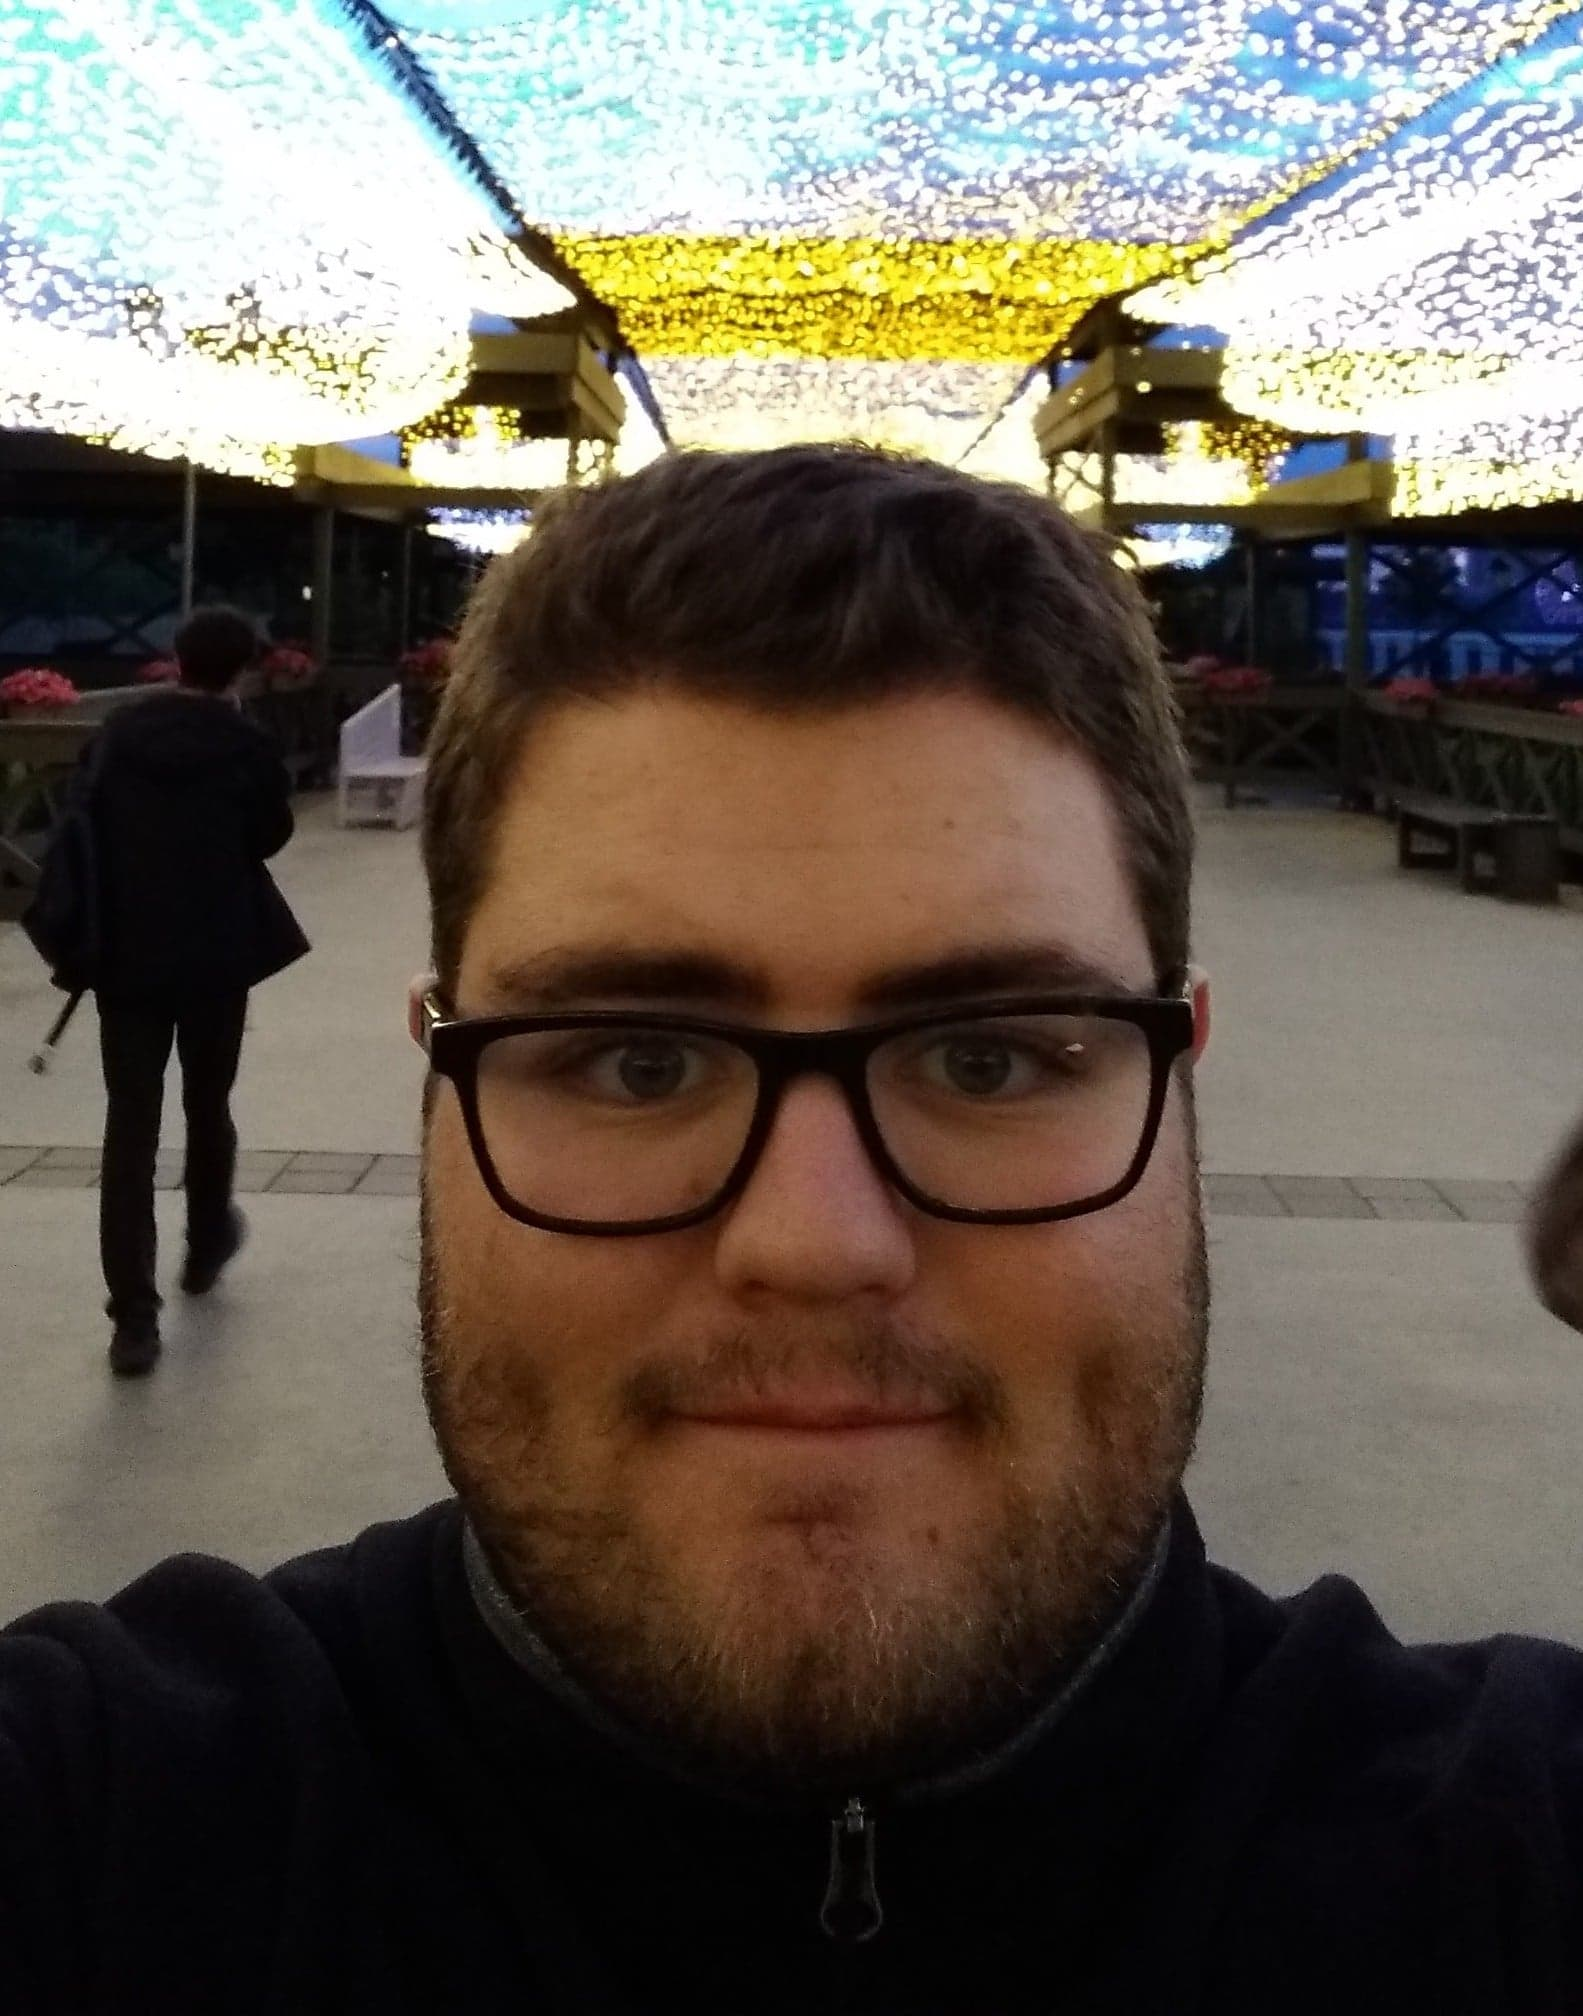
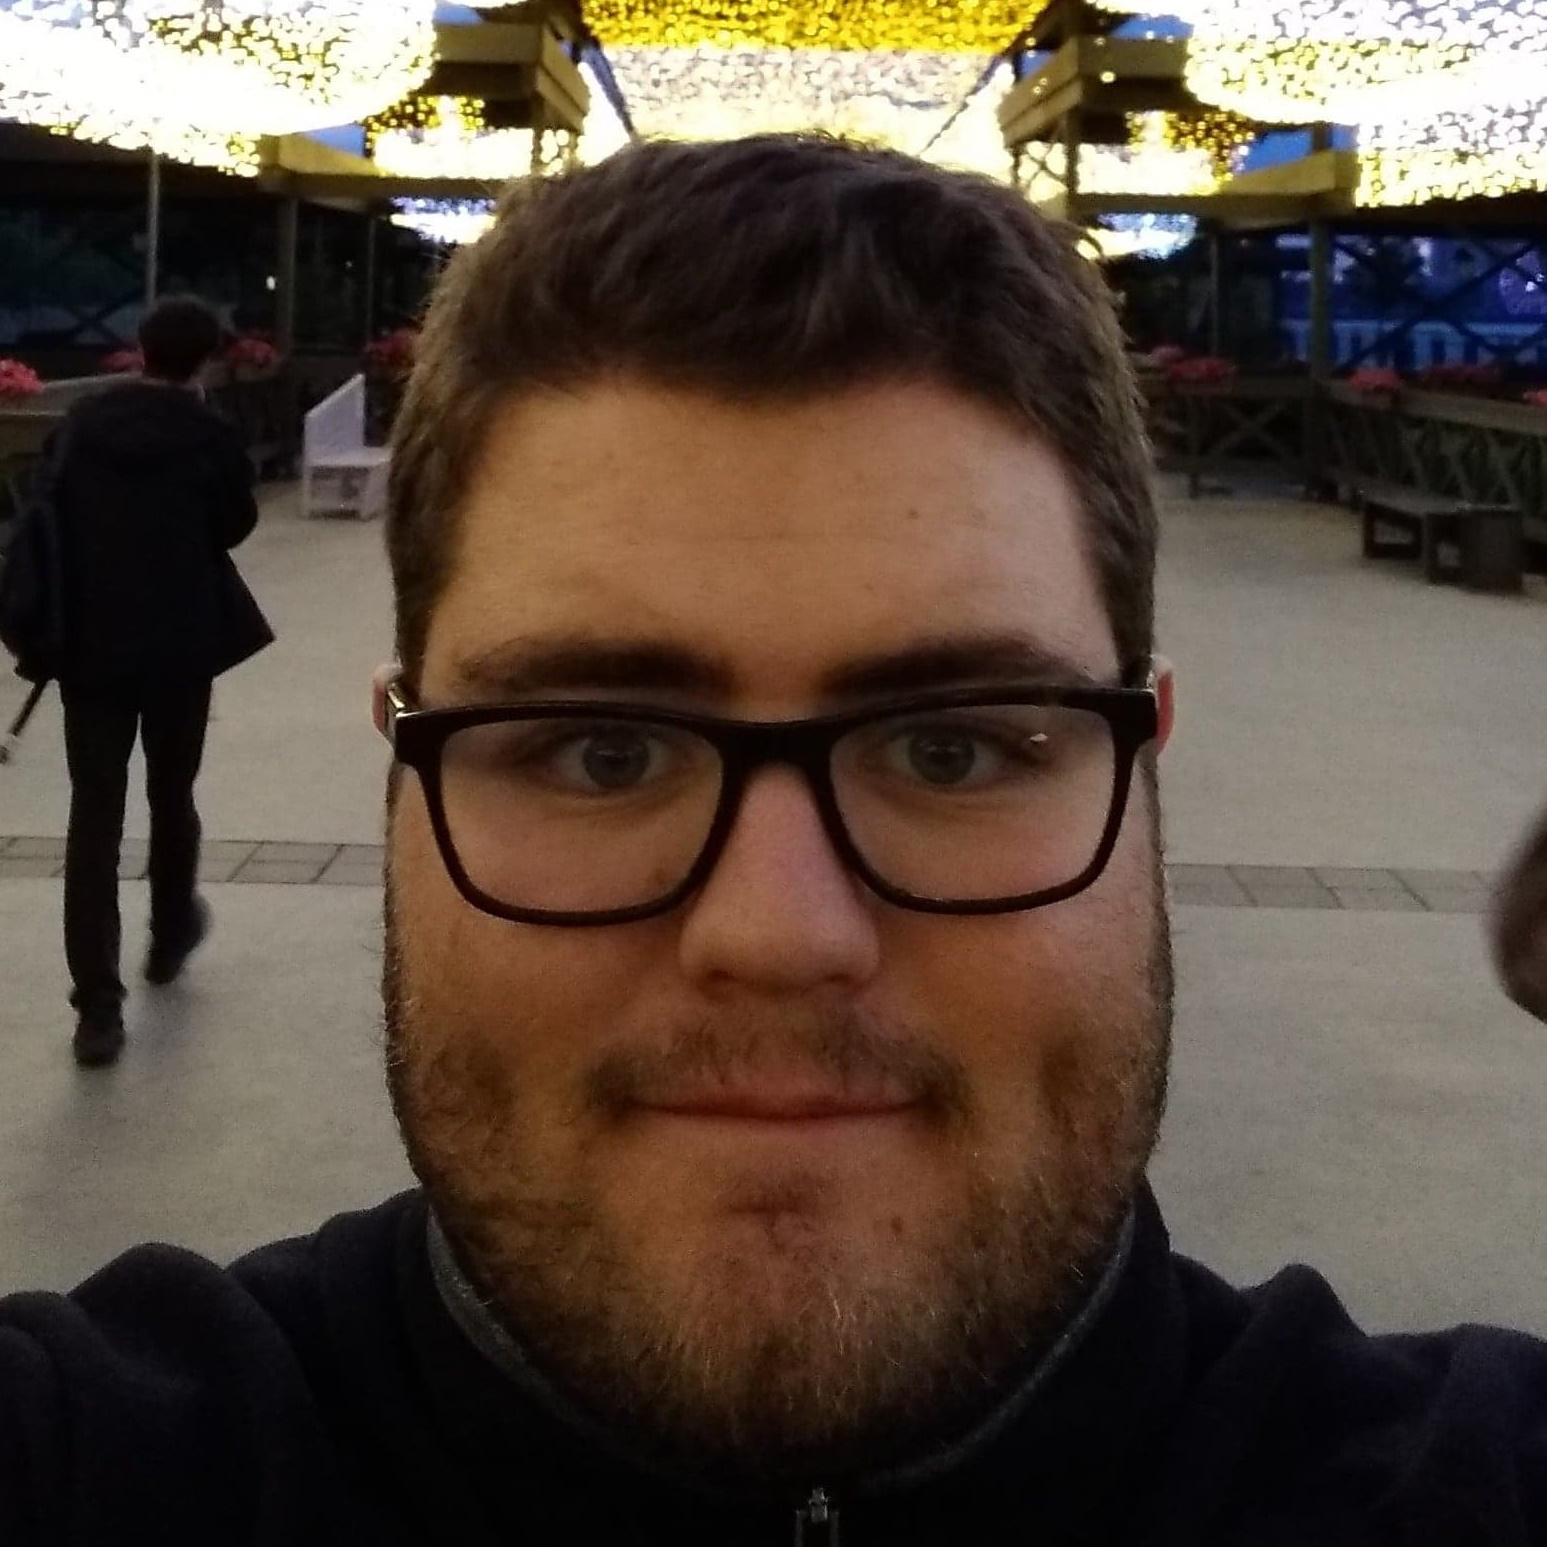
Replaced some placeholders, uploaded final profile image

diff --git a/index.html b/index.html
@@ -85,7 +85,7 @@
             </div>
 
             <div class="ProfilePanel">
-                <img src="resources/PlaceholderProfile.png" style="width:130px; border-radius: 50%;">
+                <img src="resources/Profiles/ProfilePictures/ProfileTyler.png" style="width:130px; border-radius: 50%;">
                 <h5>Tyler Lillis</h5>
                 <p class="ProfileSubtext">s3947709 • s3947709@student.rmit.edu.au</p>
                 <p>Hi, my name is Tyler Lillis. I’m Australian born with close Maltese background but have absolutely no clue how to speak a word of that language anymore even though I tried learning. I am massive basketball fan and always have been, but also really enjoy playing around with technology and learning new things about it constantly!</p>
@@ -103,14 +103,17 @@
         <div class="ContainerDiv" id="idealjobs">
             <h3>Ideal Jobs</h3>
             <div class="MainPanel">
-                <p>Placeholder text</p>
                 <table style="width:100%;">
                     <tr><th style="width:15%">Name</th><th style="width:17%">Ideal Job</th><th>Similarities</th><th>Differences</th></tr>
-                    <tr><td>Will Dash</td><td>Cyber Security Sepcialist</td><td>placeholder</td><td>placeholder</td></tr>
-                    <tr><td>Princess Abbey Jabadan</td><td>Web Developer</td><td>placeholder</td><td>placeholder</td></tr>
-                    <tr><td>Chelsie Arvy Anday</td><td>Software Developer</td><td>placeholder</td><td>placeholder</td></tr>
-                    <tr><td>Zachery Stokeld</td><td>Software Developer</td><td>placeholder</td><td>placeholder</td></tr>
-                    <tr><td>Tyler Lillis</td><td>Junior Cyber Security Analyst</td><td>placeholder</td><td>placeholder</td></tr>
+                    <tr><td>Will Dash</td><td>Cyber Security Sepcialist</td><td><ul><li>Both Princess's and my ideal job include some elements of internet and web server security, also disaster recovery plans are included as one of my tasks too </li><li>My ideal job shares similarities with Zach and Chelsie’s jobs in making suggestions and recommendations on solving client problems and writing code for a client </li><li>Tyler and I’s ideal jobs both share a strong focus on security and responding to incidents that occur </li></ul></td><td><ul><li>Princess’s ideal job is centered around website production and maintenance making it fundamentally different to mine whilst integrating some minor security aspects </li><li>Zach and Chelsie’s ideal jobs are about writing programs that process and parse data from a database instead of a security-based job </li><li>Tyler’s ideal job is the most like mine as ours are both security-based but Tyler’s has a focus on analyzing incidents and pen-testing whilst mine includes making programs that prevent threats </li></ul></td></tr>
+
+                    <tr><td>Princess Abbey Jabadan</td><td>Web Developer</td><td><ul><li>Both my ideal job and Software developers (Zach and Chelsie) share similarities between having technical skills and require software languages such as JavaScript to assist in development plans for the increase in sales revenues, assist in the development of new products, detailed oriented in which means precise attention to details and the designing and building of software computer programs. </li><li>Williams and I’s Ideal Job includes some aspects of web security and some of high-level programming skills such as Java and PHP.</li><li>Both I and Tyler’s ideal Job shares the same aspect of having analytical skills such as ensuring and understands the needs of the clients.</li></ul></td><td><ul><li>Zach and Chelsie’s ideal job is mostly focused on computer programs while my ideal job is mainly concerned with websites and web applications that run on internet browsers</li><li>My Ideal job communicate with the network specialist for the web issues and web server security while William’s ideal job as a cybersecurity specialists provide solutions to their problems and develop strategies for improving data protection. </li><li>Tyler’s Ideal job as a Cyber security analyst provides protection and is responsible for giving advice and security awareness such as spam and malicious emails and providing recommendations of how to avoid future exposure. Which is not related to my ideal job of web development but is very important and helpful.</li></ul></td></tr>
+
+                    <tr><td>Chelsie Arvy Anday</td><td>Software Developer</td><td><ul><li>Will and I’s ideal jobs involve problem solving and writing code for clients.</li><li>Princess and I’s ideal jobs do not stray far from one another in terms of the skillset involved. Our ideal jobs focus on designing webpages as well as needing programming skills to accomplish tasks.</li><li>Tyler and I’s jobs both deal with software by designing programs.</li></ul></td><td><ul><li>Will’s job involves more security elements in his job compared to software developers who need a more flexible range to design software for the client.</li><li>Our jobs differ by the set of programming languages required to learn. While Princess’s job focuses on the overall development of webpages and web applications, software developers are required to be able to build any software that satisfies the client. </li><li>Tyler and I’s jobs both require designing programs, but his requires reacting to threats in cybersecurity as opposed to my ideal job</li></ul></td></tr>
+
+                    <tr><td>Zachery Stokeld</td><td>Software Developer</td><td><ul><li>Will and I’s ideal jobs both involve dealing with client requests, and creating code to achieve those desired results</li><li>Princess and I’s ideal jobs share many similar technical skills such as using programming languages to design programs/webpages, as well as principles such as attention to detail</li><li>Tyler and I’s ideal jobs do not share many similarities beyond some minor technical skill overlap in regards to coding in python</li></ul></td><td><ul><li>Will’s ideal job as a cyber security specialist while still including development, also includes aspects like security assessments and client consultations</li><li>Princess’s ideal job is focused on the design and development of webpages and web applications, whereas my ideal job is focused on data modelling </li><li>While Tyler’s ideal job in cyber security does not relate to software development very much, it is also a far more reactionary job, as it primarily deals with incident response</li></ul></td></tr>
+
+                    <tr><td>Tyler Lillis</td><td>Junior Cyber Security Analyst</td><td><ul><li>Both Will and I’s jobs are based off the same premise of cyber security and both help and protect from threats</li><li>My ideal job is similar to Zach and Chelsie as both jobs to an extent are based around developing and designing computer programs</li><li>Mine is similar to princess as both of them are about the use and creation of servers and web applications.</li></ul></td><td><ul><li>A difference between Will and I is that an analyst looks into the data whereas a specialists specialises in certain aspects of a job </li><li>In software development you will go into further development of programs whereas a cyber security analyst will then go and analyses to improve and not make as heavily coded programs? </li><li>A web developer will spend more time on the design aspect to be appealing on a web application whereas an analyst would look into it and make sure it works for the user(s) and help keep them safe.</li></ul></td></tr>
                 </table>
             </div>
         </div>
@@ -157,14 +160,14 @@
                     </div>
                 </div>
                 <h2 class="InDataHeading" style="margin-left: 0">Has your opinion changed after looking at this data? (Princess)</h2>
-                <p>placeholder</p>
+                <p>My opinion on my ideal job hasn’t changed knowing that I’m still willing to improve these skills, especially the ones that are in demand such as communication and Problem-solving skills. I could also expand my knowledge for some of the IT specific skills such as learning JavaScript and PHP programming languages.</p>
             </div>
 
             <div class="MainPanel">
                 <img src="resources/SoftDevIcon.svg" style="width:450px; float: right; margin-bottom: 10px; margin-top: 50px">
                 <h1>2</h1>
                 <h2 class="InDataHeading">Software Developer Skills</h2>
-                <div style="height: 300px">
+                <div style="height: 350px">
                     <div style="float:left; margin-left: 10px; margin-bottom: 50px; margin-right: 25px">
                         <p>General skills required</p>
                         <ol>
@@ -199,16 +202,17 @@
                     </div>
                 </div>
                 <h2 class="InDataHeading" style="margin-left: 0;">Has your opinion changed after looking at this data? (Chelsie)</h2>
-                <p>placeholder</p>
+                <p>My opinion towards becoming a software developer has not changed despite the data. I do understand that my ideal job requires me to learn a set of programming languages and I am willing to hone the skills I already possess to be qualified in the job such as the attention to detail, which can help with writing code and debugging. 
+                </p>
                 <h2 class="InDataHeading" style="margin-left: 0; margin-top: 40px;">Has your opinion changed after looking at this data? (Zachery)</h2>
-                <p>placeholder</p>
+                <p>This information has not changed my opinion about becoming a software developer. I have a long way to go in not only learning specific programming languages, but also with the general skills that are required, as I am inexperienced at working in a professional team environment and my organizational skills require much refining. However, my enjoyment of problem solving and mathematics still lead this to be an ideal job for myself </p>
             </div>
 
             <div class="MainPanel">
                 <img src="resources/CybersecurityIcon.svg" style="width:400px; float: left; margin-right: 45px; margin-left: 25px">
                 <h1>3</h1>
                 <h2 class="InDataHeading">Cyber Security Specialist Skills</h2>
-                <div style="height: 300px">
+                <div style="height: 350px">
                     <div style="float:left">
                         <p>General skills required</p>
                         <ol>
@@ -243,14 +247,14 @@
                     </div>
                 </div>
                 <h2 class="InDataHeading" style="margin-left: 0">Has your opinion changed after looking at this data? (William)</h2>
-                <p>placeholder</p>
+                <p>No, my opinion hasn’t changed. Even though I will have to learn multiple different coding languages, operating systems and how networking works on a deeper level, I am still interested in building my skill sets to the point where I am qualified for this job. In fact, some of the general and IT-specific skills that I was not completely aware of being demanded for this kind of job are abilities that I already show interest in. For example, I enjoy designing presentations and going into detail and I am interested in the finer details of networking as I had to teach myself some of it when creating my own server.</p>
             </div>
 
             <div class="MainPanel">
                 <img src="resources/CybersecurityIcon.svg" style="width:400px; float: right; margin-right: 25px; margin-left: 25px">
                 <h1>4</h1>
                 <h2 class="InDataHeading">Cyber Security Analyst Skills</h2>
-                <div style="height: 330px">
+                <div style="height: 400px">
                     <div style="float:left">
                         <p>General skills required</p>
                         <ol>
@@ -287,7 +291,7 @@
                     </div>
                 </div>
                 <h2 class="InDataHeading" style="margin-left: 0">Has your opinion changed after looking at this data? (Tyler)</h2>
-                <p>placeholder</p>
+                <p>No, my opinion hasn’t changed as I am looking to push myself and learn more languages and like working as a part of a team as I know what my goals are. Having to learn all the different skills is an exciting prospect that I have always wanted to learn about. </p>
             </div>
 
             <!-- IT Work -->

diff --git a/stylesheet.css b/stylesheet.css
@@ -107,7 +107,7 @@ h5 {
     color:rgba(57, 83, 168, 0.7)
 }
 
-p {
+p, li {
     margin: 0;
     line-height: 1.5;
     font-size: 1rem;
